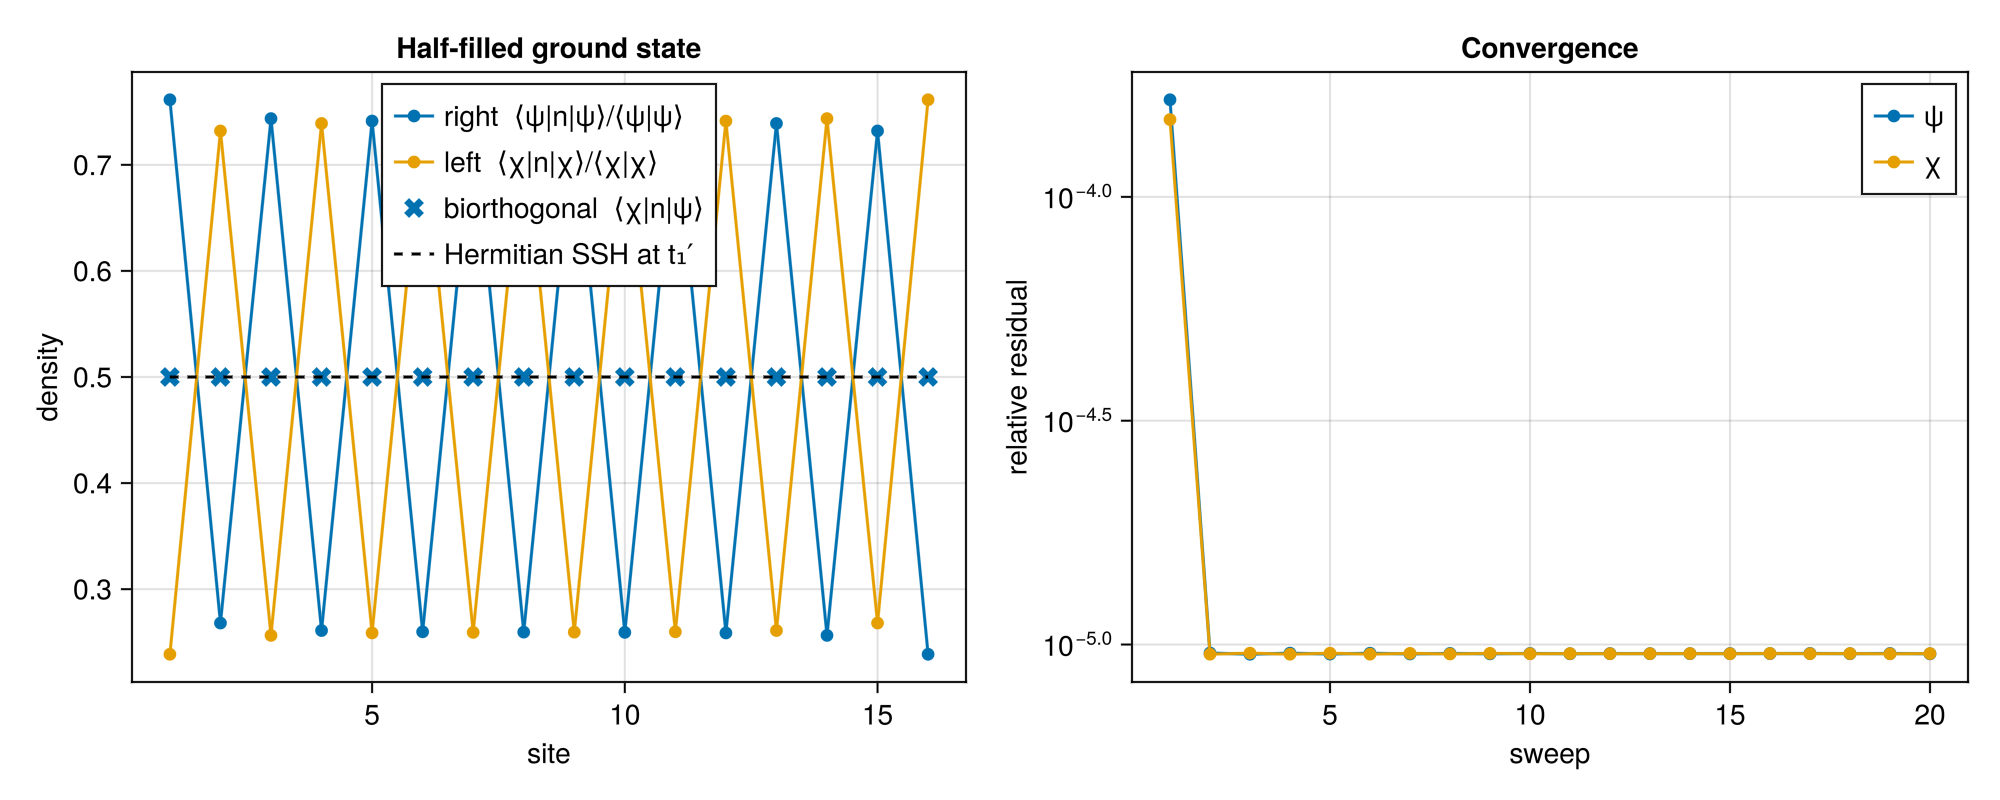
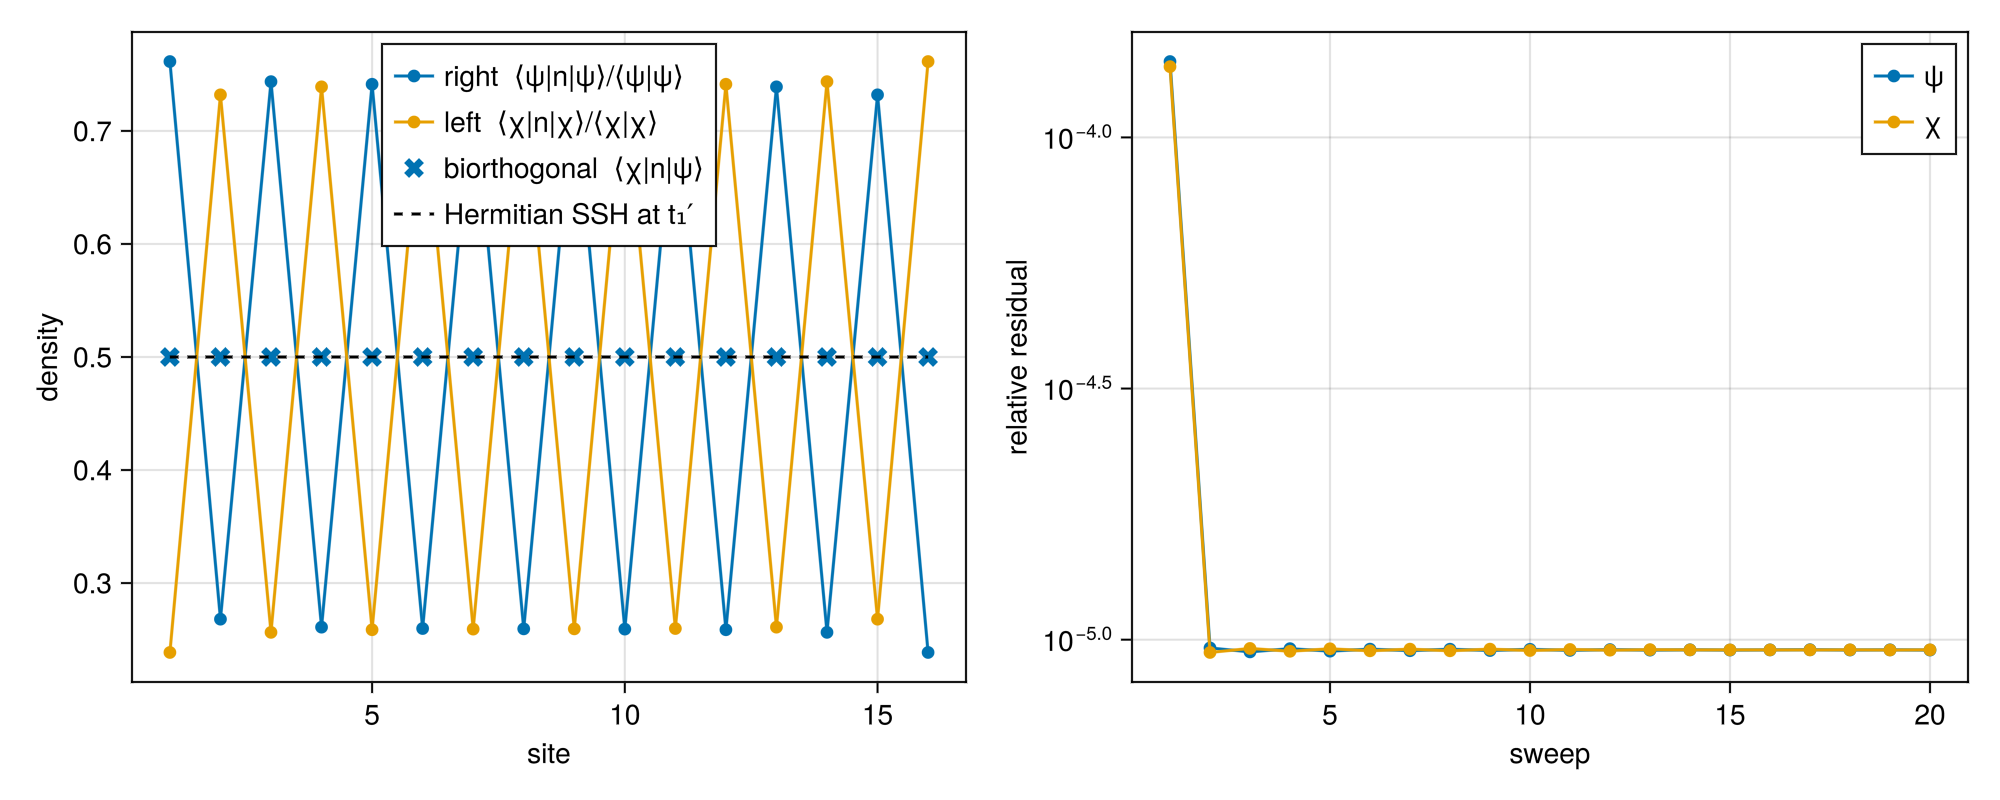
update visual_tests.md

diff --git a/visual_tests.md b/visual_tests.md
@@ -1,20 +1,21 @@
 # Visual tests
 
-The two examples below run `biorthodmrg` on models where the answer is known
-independently, so the plots can be checked by eye. Both use these packages:
+The three examples below run `biorthodmrg` on models where the answer is known
+independently, so the plots can be checked by eye. They use these packages:
 
 ```julia
 using ITensors, ITensorMPS, BiorthoDMRG, GLMakie
 using LinearAlgebra: eigen, norm
-using BiorthoDMRG.Models: ising_imaginary_field, nonreciprocal_ssh
+using BiorthoDMRG.Models: doubled_siteinds, ising_imaginary_field, lindbladian,
+    nonreciprocal_ssh, vectorized_identity, xxz
 ```
 
 ## Skin effect in the non-reciprocal SSH chain
 
-Here we look at the non-reciprocal SSH chain which makes a good first test because, on an open chain,
-it is related to an ordinary Hermitian SSH chain by a similarity transformation,
-so we know exactly what its left and right eigenvectors look like. Writing $H_0$
-for the Hermitian chain with intracell hopping
+Here we look at the non-reciprocal SSH chain, which makes a good first test because,
+on an open chain, it is related to an ordinary Hermitian SSH chain by a similarity
+transformation, so we know exactly what its left and right eigenvectors look like.
+Writing $H_0$ for the Hermitian chain with intracell hopping
 $t_1' = \mathrm{sign}(t_1)\sqrt{t_1^2 - \gamma^2/4}$, we have
 
 ```math
@@ -64,7 +65,7 @@ nR, nL, nB, nH = density(psi, psi), density(chi, chi), density(chi, psi), densit
 x = 1:N
 fig = Figure(size = (1000, 400))
 
-ax1 = Axis(fig[1, 1]; xlabel = "site", ylabel = "density", title = "Half-filled ground state")
+ax1 = Axis(fig[1, 1]; xlabel = "site", ylabel = "density")
 scatterlines!(ax1, x, real.(nR); label = "right  ⟨ψ|n|ψ⟩/⟨ψ|ψ⟩")
 scatterlines!(ax1, x, real.(nL); label = "left  ⟨χ|n|χ⟩/⟨χ|χ⟩")
 scatter!(ax1, x, real.(nB); marker = :xcross, markersize = 14, label = "biorthogonal  ⟨χ|n|ψ⟩")
@@ -72,7 +73,7 @@ lines!(ax1, x, real.(nH); color = :black, linestyle = :dash, label = "Hermitian 
 axislegend(ax1; position = :ct)
 
 r = obs.residuals
-ax2 = Axis(fig[1, 2]; xlabel = "sweep", ylabel = "relative residual", yscale = log10, title = "Convergence")
+ax2 = Axis(fig[1, 2]; xlabel = "sweep", ylabel = "relative residual", yscale = log10)
 scatterlines!(ax2, 1:length(r), max.(first.(r), eps()); label = "ψ")
 scatterlines!(ax2, 1:length(r), max.(last.(r), eps()); label = "χ")
 axislegend(ax2)
@@ -87,7 +88,7 @@ With these parameters the right density sits near 0.74 on the A sites, the left
 density is its reflection, and the biorthogonal markers fall on the dashed line. As expected!
 
 Making $\gamma$ larger increases the A/B imbalance, and with it the condition
-number, which grows monotonically with $\gamma$. 
+number, which grows monotonically with $\gamma$.
 
 ## Exceptional point of the Ising chain in an imaginary field
 
@@ -112,7 +113,6 @@ $\kappa \propto (h_z^c - h_z)^{-1/2}$.
 The code finds $h_z^c$ by exact diagonalization, runs `biorthodmrg` at
 logarithmically spaced distances below it, and compares the energies and
 condition numbers with the exact ones.
-
 
 Run it!
 ```julia
@@ -187,3 +187,77 @@ symmetrically. The `biorthodmrg` energies, in red, sit on the lower branch with
 vanishing imaginary part. In the last panel the condition numbers from
 `biorthodmrg` fall on the exact curve, and both bend toward the slope $-1/2$ as
 $h_z$ approaches $h_z^c$. As expected!
+
+## Steady state of the boundary-driven XXZ chain
+
+The last example is for an open system with a Lindbladian. 
+Specifically, we consider an XXZ chain pumped at its left end, with
+jump operator $\sqrt{\varepsilon}\,S^+_1$, and drained at its right end, with
+$\sqrt{\varepsilon}\,S^-_N$, so that magnetization flows through it from left to
+right. 
+
+After vectorizing $\rho$, the Lindbladian becomes an ordinary non-Hermitian
+operator, and its steady state is the right eigenvector with eigenvalue $0$. Every
+other eigenvalue has a negative real part, so `which = :LR` picks it out. Trace
+preservation means the vectorized identity is an exact left eigenvector, so `chi`
+should come out proportional to it, and expectation values are computed with the
+identity itself, as $\operatorname{tr}(O\rho)/\operatorname{tr}\rho$. We start the
+sweeps from the infinite-temperature state.
+
+Two properties of the steady state can be checked by eye. Reflecting the chain,
+$j \to N + 1 - j$, together with a global spin flip leaves $H$ unchanged and
+swaps the two jump operators, $S^+_1 \leftrightarrow S^-_N$, so it maps the
+Lindbladian to itself. The steady state is unique, so it must be invariant as
+well, and that forces the magnetization profile to be antisymmetric,
+$\langle S^z_j\rangle = -\langle S^z_{N+1-j}\rangle$. In the bulk only the
+Hamiltonian acts, and $i[H, S^z_k] = j_{k-1} - j_k$ with spin current
+$j_k = \tfrac{i}{2}(S^+_k S^-_{k+1} - S^-_k S^+_{k+1})$, so in the steady state the
+current has to be the same on every bond.
+
+Run it!
+```julia
+N, ε = 10, 0.5
+s = siteinds("S=1/2", N)
+d = doubled_siteinds(s)
+id = vectorized_identity(d)
+jumps = [sqrt(ε) * op("S+", s[1]), sqrt(ε) * op("S-", s[N])]
+kw = (; nsweeps = 20, maxdim = [32, 64], cutoff = 1e-10, outputlevel = 0,
+    solver = sssolver, eigsolve_tol = 1e-10, eigsolve_krylovdim = 30, eigsolve_maxiter = 10)
+
+# tr(Aᵢ Bⱼ ρ) / tr ρ for single-site operators A on site i and B on site j
+avg(rho, A, i, B = "Id", j = i) = inner(id, apply(op(A, s[i]), apply(op(B, s[j]), rho))) / inner(id, rho)
+
+Δs = (0.5, 1.0, 1.5)
+results = map(Δs) do Δ
+    λ, chi, rho = biorthodmrg(lindbladian(xxz(s; Δ), jumps, d), id; kw...)
+    @show Δ λ
+    mz = [real(avg(rho, "Sz", j)) for j in 1:N]
+    jz = [real(im / 2 * (avg(rho, "S+", k, "S-", k + 1) - avg(rho, "S-", k, "S+", k + 1))) for k in 1:(N - 1)]
+    (; mz, jz)
+end
+
+fig = Figure(size = (1000, 400))
+ax1 = Axis(fig[1, 1]; xlabel = "site", ylabel = "⟨Sᶻ⟩")
+ax2 = Axis(fig[1, 2]; xlabel = "bond", ylabel = "⟨j⟩")
+for (Δ, r) in zip(Δs, results)
+    scatterlines!(ax1, 1:N, r.mz; label = "Δ = $Δ")
+    scatterlines!(ax2, 1:(N - 1), r.jz; label = "Δ = $Δ")
+end
+axislegend(ax1; position = :lb)
+
+save("driven_xxz.png", fig)
+fig
+```
+
+![driven_xxz](driven_xxz.png)
+
+Each magnetization profile is antisymmetric about the middle of the chain and stays
+within $\pm 1/2$, each current is flat across the bonds, and the printed $\lambda$ is
+zero. The currents also obey the balance at the pumped end: in the steady state the
+pump injects $\varepsilon(1/2 - \langle S^z_1\rangle)$ per unit time, which must equal
+the current through the first bond, and with $\varepsilon = 0.5$ this gives $0.175$
+for $\Delta = 0.5$ and $0.047$ for $\Delta = 1$, the values in the right panel. With
+$\Delta = 0.5$ the bulk magnetization is nearly flat and the current is large, the
+signature of ballistic transport. At $\Delta = 1$ the profile becomes a smooth
+gradient, and at $\Delta = 1.5$ a domain wall, with the current almost entirely
+suppressed. As expected!
